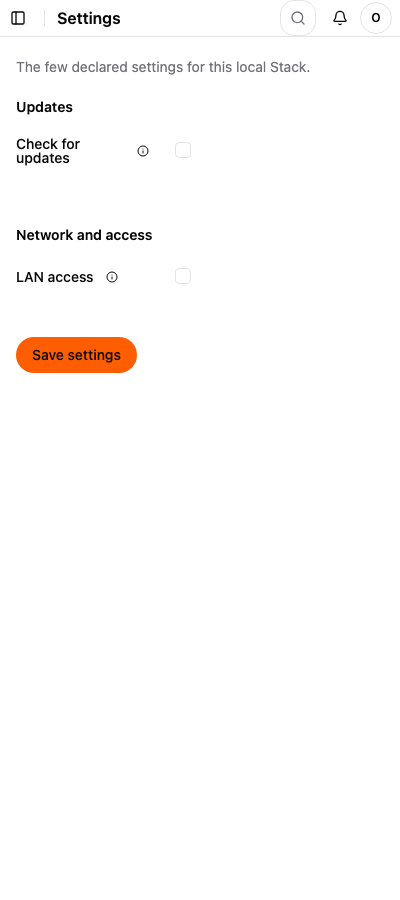
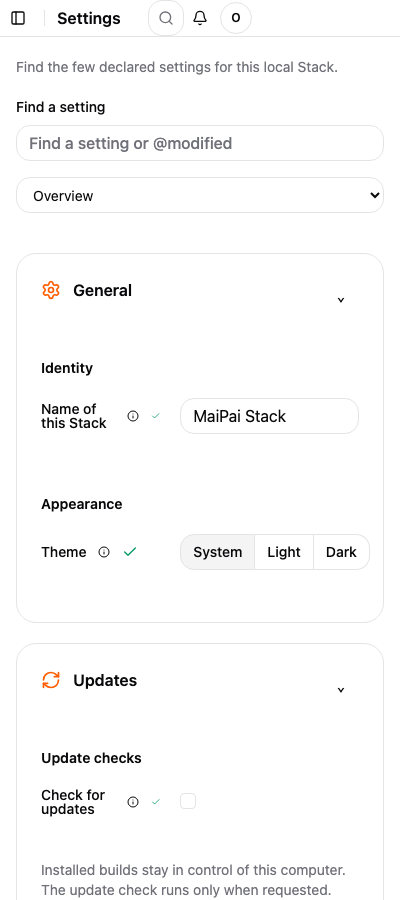
Settings (STACK-52): a settings nav, section cards, live apply

diff --git a/frontend/src/pages/SettingsPage.tsx b/frontend/src/pages/SettingsPage.tsx
@@ -1,20 +1,76 @@
 import { useEffect, useMemo, useState } from "react";
-import { Link, useLocation } from "react-router-dom";
-import type { EngineSetting } from "@/lib/api";
+import type { ReactNode } from "react";
+import { Link, useLocation, useNavigate, useParams } from "react-router-dom";
+import type { EngineSetting, HardwareResponse, StackSettingSection } from "@/lib/api";
 import { api } from "@/lib/api";
 import { useApiResource } from "@/lib/useApiResource";
 import { GenericForm } from "@/kit/settings/GenericForm";
+import { getIcon } from "@/kit/icons";
 import { Button } from "@/kit/ui/button";
+import { Card, CardContent, CardDescription, CardHeader, CardTitle } from "@/kit/ui/card";
+import { Input } from "@/kit/ui/input";
+import { ThingsTable } from "@/kit/blocks/things-table/ThingsTable";
 import type { SectionFrameComponent } from "@/pages/DashboardShell";
+
+type SettingValue = string | number | boolean;
+type IndexResponse = { sections: StackSettingSection[]; settings: Array<{ key: string; label: string; help: string; level: string; section: string; order: number; path: string }> };
+
+const fallbackSections: StackSettingSection[] = [
+  { id: "general", title: "General", icon: "Settings", order: 10 }, { id: "updates", title: "Updates", icon: "RefreshCw", order: 20 }, { id: "backups", title: "Backups", icon: "UploadCloud", order: 30, itemId: "STACK-11" }, { id: "network", title: "Network and access", icon: "ShieldCheck", order: 40 }, { id: "channels", title: "Alert channels", icon: "Bell", order: 50 }, { id: "storage", title: "Storage", icon: "Database", order: 60 }, { id: "maintenance", title: "Maintenance", icon: "Wrench", order: 70, itemId: "STACK-22" }, { id: "engines", title: "Engines", icon: "Cpu", order: 80 }, { id: "hardware", title: "Hardware", icon: "Monitor", order: 90, computer: true }, { id: "diagnostics", title: "Diagnostics", icon: "FileText", order: 100, computer: true }, { id: "reset", title: "Reset", icon: "RotateCcw", order: 110, computer: true },
+];
+
+const placeholder = (key: string, label: string, help: string, section: string): EngineSetting => ({ key, type: "text", default: "", label, help, disclosure: "basic", needsRestart: false, inEffect: "", pending: null, section });
+function sectionIcon(name: string) { return getIcon(name as Parameters<typeof getIcon>[0]); }
+
+function SettingsSection({ section, children }: { section: StackSettingSection; children: ReactNode }) {
+  const [open, setOpen] = useState(() => localStorage.getItem(`maipai-settings-collapsed-${section.id}`) !== "1");
+  const Icon = sectionIcon(section.icon);
+  function toggle(): void { setOpen((current) => { localStorage.setItem(`maipai-settings-collapsed-${section.id}`, current ? "1" : "0"); return !current; }); }
+  return <Card data-testid={`settings-section-${section.id}`}><CardHeader className="pb-3"><div className="flex items-start justify-between gap-3"><div className="flex items-start gap-3"><Icon className="mt-0.5 size-5 text-primary" /><div><CardTitle className="text-base">{section.title}</CardTitle>{section.itemId && <CardDescription>Arrives with {section.itemId}.</CardDescription>}</div></div><Button type="button" size="icon" variant="ghost" aria-label={`${open ? "Collapse" : "Expand"} ${section.title}`} onClick={toggle}>{open ? "⌄" : "›"}</Button></div></CardHeader>{open && <CardContent>{children}</CardContent>}</Card>;
+}
+
+function DisabledRows({ section }: { section: StackSettingSection }) {
+  const reason = section.itemId ? `${section.title} arrives with ${section.itemId}.` : "This section is not configured yet.";
+  const row = placeholder(`${section.id}-placeholder`, section.title, reason, section.id);
+  return <><GenericForm settings={[row]} values={{ [row.key]: "Not available" }} onChange={() => undefined} disabled testId="generic-settings-form" /><p className="mt-4 text-sm text-muted-foreground">{reason}</p></>;
+}
 
 export function SettingsPage({ Frame }: { Frame: SectionFrameComponent }) {
   const settings = useApiResource<{ settings: EngineSetting[] }>("/stack/v1/settings");
-  const [draft, setDraft] = useState<Record<string, string | number | boolean>>({});
-  useEffect(() => { if (settings.data) setDraft(Object.fromEntries(settings.data.settings.map((setting) => [setting.key, setting.pending ?? setting.inEffect]))); }, [settings.data]);
+  const index = useApiResource<IndexResponse>("/stack/v1/settings/index");
+  const hardware = useApiResource<HardwareResponse>("/stack/v1/hardware");
+  const channels = useApiResource<{ channels: Array<{ id: string; name: string; type: string; status: string; lastSentAt: string | null }> }>("/stack/v1/channels");
+  const engines = useApiResource<{ engines: Array<{ id: string; label: string; current: boolean; stateReason: string | null }> }>("/stack/v1/engines");
+  const [draft, setDraft] = useState<Record<string, SettingValue>>({});
+  const [search, setSearch] = useState("");
+  const [error, setError] = useState<string | null>(null);
   const location = useLocation();
-  const [pending, setPending] = useState<string[]>([]);
-  const sections = useMemo(() => [{ id: "general", title: "General" }, { id: "updates", title: "Updates" }, { id: "backups", title: "Backups" }, { id: "network", title: "Network and access" }, { id: "channels", title: "Alert channels" }, { id: "storage", title: "Storage" }, { id: "maintenance", title: "Maintenance" }, { id: "engines", title: "Engines" }, { id: "hardware", title: "Hardware" }, { id: "diagnostics", title: "Diagnostics" }, { id: "reset", title: "Reset" }], []);
-  async function changeSetting(key: string, value: string | number | boolean): Promise<void> { const next = { ...draft, [key]: value }; setDraft(next); const changed = settings.data?.settings.find((setting) => setting.key === key); if (changed?.needsRestart) setPending((current) => current.includes(key) ? current : [...current, key]); try { await api.put("/stack/v1/settings", next); await settings.refetch(); } catch { /* the row keeps its draft until the next retry */ } }
-  const active = location.hash.replace("#", "") || "general";
-  return <Frame title="Settings" description="The few declared settings for this local Stack."><div className="grid gap-6 lg:grid-cols-[14rem_1fr]"><aside className="space-y-3"><label className="block text-sm font-medium">Find a setting<input className="mt-2 h-9 w-full rounded-md border bg-background px-3 text-sm" placeholder="Find a setting" /></label><nav className="space-y-1">{sections.map((section) => <a className={`block rounded-md px-3 py-2 text-sm ${active === section.id ? "bg-muted font-medium" : "text-muted-foreground hover:bg-muted"}`} href={`#${section.id}`} key={section.id}>{section.title}</a>)}</nav></aside><div className="space-y-5">{settings.loading && <p className="text-sm text-muted-foreground">Loading declared settings…</p>}{settings.error && <p className="text-sm text-destructive">Settings could not be loaded.</p>}{settings.data && <><section id="general" className="scroll-mt-6 rounded-xl border p-5"><h2 className="font-semibold">General</h2><p className="mt-1 text-sm text-muted-foreground">How this Stack presents itself.</p><div className="mt-4"><GenericForm settings={settings.data.settings} values={draft} onChange={(key, value) => void changeSetting(key, value)} /></div></section><section id="updates" className="scroll-mt-6 rounded-xl border p-5"><h2 className="font-semibold">Updates</h2><p className="mt-1 text-sm text-muted-foreground">Updates are checked on request. Installed builds stay in control of this computer.</p></section><section id="backups" className="scroll-mt-6 rounded-xl border p-5"><h2 className="font-semibold">Backups</h2><p className="mt-1 text-sm text-muted-foreground">Backups arrive with STACK-11.</p></section><section id="network" className="scroll-mt-6 rounded-xl border p-5"><h2 className="font-semibold">Network and access</h2><p className="mt-1 text-sm text-muted-foreground"><Link className="text-primary underline" to="/access">Manage Clients and LAN access</Link>.</p></section>{sections.slice(4).map((section) => <section id={section.id} className="scroll-mt-6 rounded-xl border p-5" key={section.id}><h2 className="font-semibold">{section.title}</h2><p className="mt-1 text-sm text-muted-foreground">This section is declared by the Stack and stays local to this computer.</p></section>)}{pending.length > 0 && <div className="sticky bottom-4 flex items-center justify-between gap-4 rounded-xl border bg-card p-4 shadow-sm"><span>{pending.length} change{pending.length === 1 ? "" : "s"} need a restart of the chat engine</span><div className="flex gap-2"><Button variant="outline" onClick={() => setPending([])}>Discard</Button><Button onClick={() => setPending([])}>Apply now</Button></div></div>}</>}</div></div></Frame>;
+  const navigate = useNavigate();
+  const { section: routeSection } = useParams<{ section?: string }>();
+  const sections = (index.data?.sections ?? fallbackSections).slice().sort((left, right) => left.order - right.order);
+  const hashSection = location.hash.replace(/^#/, "");
+  const active = routeSection && sections.some((section) => section.id === routeSection) ? routeSection : sections.some((section) => section.id === hashSection) ? hashSection : "overview";
+
+  useEffect(() => { if (settings.data?.settings) setDraft(Object.fromEntries(settings.data.settings.map((setting) => [setting.key, setting.pending ?? setting.inEffect]))); }, [settings.data]);
+  const visibleSettings = useMemo(() => {
+    const query = search.trim().toLocaleLowerCase();
+    return (settings.data?.settings ?? []).filter((setting) => query === "@modified" ? setting.pending !== null : !query || setting.label.toLocaleLowerCase().includes(query) || setting.key.toLocaleLowerCase().includes(query) || setting.help.toLocaleLowerCase().includes(query));
+  }, [search, settings.data]);
+  const pending = (settings.data?.settings ?? []).filter((setting) => setting.needsRestart && setting.pending !== null);
+  async function changeSetting(key: string, value: SettingValue): Promise<void> { setDraft((current) => ({ ...current, [key]: value })); setError(null); try { await api.put("/stack/v1/settings", { [key]: value }); await settings.refetch(); } catch (reason) { setError(reason instanceof Error ? reason.message : "The setting could not be saved."); } }
+  async function applyPending(): Promise<void> { try { await api.post("/stack/v1/settings/apply"); await settings.refetch(); } catch (reason) { setError(reason instanceof Error ? reason.message : "Pending settings could not be applied."); } }
+  async function discardPending(): Promise<void> { const values = Object.fromEntries((settings.data?.settings ?? []).filter((setting) => setting.pending !== null).map((setting) => [setting.key, setting.inEffect])); try { await api.put("/stack/v1/settings", values); await settings.refetch(); } catch (reason) { setError(reason instanceof Error ? reason.message : "Pending settings could not be discarded."); } }
+  function showSection(id: string): void { navigate(id === "overview" ? "/settings" : `/settings/${id}`); }
+
+  function sectionBody(section: StackSettingSection): ReactNode {
+    const declared = visibleSettings.filter((setting) => setting.section === section.id);
+    if (["general", "network", "updates", "diagnostics", "storage"].includes(section.id)) return <><GenericForm settings={declared} values={draft} onChange={(key, value) => void changeSetting(key, value)} testId={section.id === "general" ? "generic-engine-form" : "generic-settings-form"} />{section.id === "network" && <p className="mt-4 text-sm text-muted-foreground"><Link className="underline" to="/access">Manage operator access and client keys</Link>.</p>}{section.id === "updates" && <p className="mt-4 text-sm text-muted-foreground">Installed builds stay in control of this computer. The update check runs only when requested.</p>}</>;
+    if (section.id === "channels") return <><ThingsTable rows={channels.data?.channels ?? []} getKey={(row) => row.id} columns={[{ key: "name", header: "Channel", render: (row) => row.name }, { key: "type", header: "Type", render: (row) => row.type }, { key: "status", header: "Status", align: "right", render: (row) => row.status }]} actions={[{ label: "Add a channel", onClick: () => navigate("/alerts") }]} empty="No alert channels configured." /><p className="mt-3 text-sm text-muted-foreground"><Link className="underline" to="/alerts">Manage alert channels</Link>.</p></>;
+    if (section.id === "engines") return <div className="space-y-3">{(engines.data?.engines ?? []).map((engine) => <Link className="flex items-center justify-between rounded-lg border p-3 text-sm hover:bg-muted" to={`/engines?engine=${encodeURIComponent(engine.id)}`} key={engine.id}><span>{engine.label}</span><span className="text-muted-foreground">{engine.current ? "Current" : engine.stateReason ?? "Settings"}</span></Link>)}{(engines.data?.engines ?? []).length === 0 && <p className="text-sm text-muted-foreground">No engines are installed yet.</p>}</div>;
+    if (section.id === "hardware") return <div className="grid gap-3 text-sm sm:grid-cols-2">{[["Platform", hardware.data?.hardware.platform], ["Architecture", hardware.data?.hardware.arch], ["Memory", hardware.data?.hardware.totalRamGb ? `${hardware.data.hardware.totalRamGb} GB` : "Not measured"], ["Operating system", hardware.data?.hardware.osVersion]].map(([label, value]) => <div className="border-t pt-3" key={String(label)}><p className="text-muted-foreground">{label}</p><p className="mt-1 font-medium">{value ?? "Not measured"}</p></div>)}</div>;
+    if (section.id === "reset") return <div className="space-y-3 text-sm"><p>Clear local caches or forget detected things from the Stack.</p><Button variant="outline" type="button" onClick={() => undefined}>Clear caches</Button><p className="text-muted-foreground">Destructive reset actions ask for confirmation before they run.</p></div>;
+    return <DisabledRows section={section} />;
+  }
+
+  return <Frame title="Settings" description="Find the few declared settings for this local Stack."><div className="grid gap-6 lg:grid-cols-[15rem_1fr]"><aside className="space-y-4"><label htmlFor="settings-search" className="block text-sm font-medium">Find a setting<Input id="settings-search" aria-label="Find a setting" className="mt-2" placeholder="Find a setting or @modified" value={search} onChange={(event) => setSearch(event.target.value)} /></label><select aria-label="Settings section" className="h-9 w-full rounded-md border bg-background px-3 text-sm lg:hidden" value={active} onChange={(event) => showSection(event.target.value)}><option value="overview">Overview</option>{sections.map((section) => <option value={section.id} key={section.id}>{section.title}</option>)}</select><nav className="hidden space-y-1 lg:block"><Link className={`block rounded-md px-3 py-2 text-sm ${active === "overview" ? "bg-muted font-medium" : "text-muted-foreground hover:bg-muted"}`} to="/settings">Overview</Link>{sections.filter((section) => !section.computer).map((section) => <Link className={`block rounded-md px-3 py-2 text-sm ${active === section.id ? "bg-muted font-medium" : "text-muted-foreground hover:bg-muted"}`} to={`/settings/${section.id}`} key={section.id}>{section.title}</Link>)}<div className="my-3 border-t" /><p className="px-3 text-xs font-medium uppercase tracking-wide text-muted-foreground">{hardware.data?.hardware.computerName ?? "This computer"}</p>{sections.filter((section) => section.computer).map((section) => <Link className={`block rounded-md px-3 py-2 text-sm ${active === section.id ? "bg-muted font-medium" : "text-muted-foreground hover:bg-muted"}`} to={`/settings/${section.id}`} key={section.id}>{section.title}</Link>)}</nav></aside><div className="min-w-0 space-y-5">{error && <p className="text-sm text-destructive" role="alert">{error}</p>}{settings.loading && <p className="text-sm text-muted-foreground">Loading declared settings...</p>}{active === "overview" ? sections.map((section) => <SettingsSection section={section} key={section.id}>{sectionBody(section)}</SettingsSection>) : sections.filter((section) => section.id === active).map((section) => <SettingsSection section={section} key={section.id}>{sectionBody(section)}</SettingsSection>)}{pending.length > 0 && <div className="sticky bottom-4 flex items-center justify-between gap-4 rounded-xl border bg-card p-4 shadow-sm"><span>{pending.length} change{pending.length === 1 ? "" : "s"} need a restart of the chat engine</span><div className="flex gap-2"><Button type="button" variant="outline" onClick={() => void discardPending()}>Discard</Button><Button type="button" onClick={() => void applyPending()}>Apply now</Button></div></div>}</div></div></Frame>;
 }

diff --git a/frontend/src/kit/settings/GenericForm.tsx b/frontend/src/kit/settings/GenericForm.tsx
@@ -12,46 +12,48 @@ import { Select, SelectContent, SelectItem, SelectTrigger, SelectValue } from "@
 import { ToggleGroup, ToggleGroupItem } from "@/kit/ui/toggle-group";
 
 type SettingValue = string | number | boolean;
-const Info = getIcon("Info");
+const Info = getIcon("Info"); const Check = getIcon("Check");
 
 export interface GenericFormProps {
   settings: EngineSetting[];
   values: Record<string, SettingValue>;
   onChange: (key: string, value: SettingValue) => void;
+  disabled?: boolean;
+  testId?: string;
 }
 
 function sameValue(left: SettingValue, right: SettingValue): boolean { return left === right; }
 
-function SettingControl({ setting, value, onChange }: { setting: EngineSetting; value: SettingValue; onChange: (value: SettingValue) => void }) {
-  if (setting.type === "boolean") return <Checkbox id={`setting-${setting.key}`} aria-label={setting.label} checked={Boolean(value)} onCheckedChange={(checked) => onChange(checked === true)} />;
-  if (setting.type === "enum" && (setting.options?.length ?? 0) <= 3) return <ToggleGroup type="single" variant="outline" value={String(value)} onValueChange={(next) => { if (next) onChange(next); }} aria-label={setting.label}>{(setting.options ?? []).map((option) => <ToggleGroupItem key={option.value} value={option.value} aria-label={option.label}>{option.label}</ToggleGroupItem>)}</ToggleGroup>;
-  if (setting.type === "enum") return <Select value={String(value)} onValueChange={onChange}><SelectTrigger id={`setting-${setting.key}`} aria-label={setting.label}><SelectValue /></SelectTrigger><SelectContent>{(setting.options ?? []).map((option) => <SelectItem key={option.value} value={option.value}>{option.label}</SelectItem>)}</SelectContent></Select>;
-  return <Input id={`setting-${setting.key}`} aria-label={setting.label} type={setting.type === "number" ? "number" : setting.type === "secret" || setting.type === "password" ? "password" : "text"} min={setting.range?.min} max={setting.range?.max} value={String(value)} onChange={(event) => onChange(setting.type === "number" ? Number(event.target.value) : event.target.value)} />;
+function SettingControl({ setting, value, onChange, disabled }: { setting: EngineSetting; value: SettingValue; onChange: (value: SettingValue) => void; disabled?: boolean }) {
+  if (setting.type === "boolean") return <Checkbox id={`setting-${setting.key}`} aria-label={setting.label} checked={Boolean(value)} disabled={disabled} onCheckedChange={(checked) => onChange(checked === true)} />;
+  if (setting.type === "enum" && (setting.options?.length ?? 0) <= 3) return <ToggleGroup disabled={disabled} type="single" variant="outline" value={String(value)} onValueChange={(next) => { if (next) onChange(next); }} aria-label={setting.label}>{(setting.options ?? []).map((option) => <ToggleGroupItem key={option.value} value={option.value} aria-label={option.label}>{option.label}</ToggleGroupItem>)}</ToggleGroup>;
+  if (setting.type === "enum") return <Select disabled={disabled} value={String(value)} onValueChange={onChange}><SelectTrigger id={`setting-${setting.key}`} aria-label={setting.label}><SelectValue /></SelectTrigger><SelectContent>{(setting.options ?? []).map((option) => <SelectItem key={option.value} value={option.value}>{option.label}</SelectItem>)}</SelectContent></Select>;
+  return <Input disabled={disabled} id={`setting-${setting.key}`} aria-label={setting.label} type={setting.type === "number" ? "number" : setting.type === "secret" || setting.type === "password" ? "password" : "text"} min={setting.range?.min} max={setting.range?.max} value={String(value)} onChange={(event) => onChange(setting.type === "number" ? Number(event.target.value) : event.target.value)} />;
 }
 
-function SettingRow({ setting, value, onChange }: { setting: EngineSetting; value: SettingValue; onChange: (value: SettingValue) => void }) {
+function SettingRow({ setting, value, onChange, disabled }: { setting: EngineSetting; value: SettingValue; onChange: (value: SettingValue) => void; disabled?: boolean }) {
   const pending = !sameValue(value, setting.inEffect);
-  return <div className="grid grid-cols-[minmax(0,2fr)_minmax(0,3fr)] items-center gap-5 border-t py-4 first:border-t-0" data-testid={`setting-row-${setting.key}`}><div className="min-w-0"><div className="flex items-center gap-1.5"><Label htmlFor={`setting-${setting.key}`}>{setting.label}</Label><Popover><PopoverTrigger asChild><Button type="button" size="icon-xs" variant="ghost" aria-label={`Explain ${setting.label}`}><Info /></Button></PopoverTrigger><PopoverContent align="start" className="space-y-2 text-sm"><p>{setting.help}</p>{setting.needsRestart && <p className="text-muted-foreground">Takes effect after a restart.</p>}</PopoverContent></Popover>{pending && <Badge variant="outline">pending</Badge>}</div></div><div className="min-w-0"><SettingControl setting={setting} value={value} onChange={onChange} /></div></div>;
+  return <div className={`grid grid-cols-[minmax(0,2fr)_minmax(0,3fr)] items-center gap-5 border-t py-4 first:border-t-0 ${disabled ? "opacity-50" : ""}`} data-testid={`setting-row-${setting.key}`}><div className="min-w-0"><div className="flex items-center gap-1.5"><Label htmlFor={`setting-${setting.key}`}>{setting.label}</Label><Popover><PopoverTrigger asChild><Button disabled={disabled} type="button" size="icon-xs" variant="ghost" aria-label={`Explain ${setting.label}`}><Info /></Button></PopoverTrigger><PopoverContent align="start" className="space-y-2 text-sm"><p>{setting.help}</p>{setting.needsRestart && <p className="text-muted-foreground">Takes effect after a restart.</p>}</PopoverContent></Popover>{pending && !disabled && <Badge variant="outline">pending</Badge>}{!pending && !disabled && <Check className="size-4 text-emerald-600" aria-label="Saved" />}</div></div><div className="min-w-0"><SettingControl setting={setting} value={value} disabled={disabled} onChange={onChange} /></div></div>;
 }
 
-function DisclosureRows({ label, settings, values, onChange }: { label: string; settings: EngineSetting[]; values: Record<string, SettingValue>; onChange: GenericFormProps["onChange"] }) {
+function DisclosureRows({ label, settings, values, onChange, disabled }: { label: string; settings: EngineSetting[]; values: Record<string, SettingValue>; onChange: GenericFormProps["onChange"]; disabled?: boolean }) {
   if (settings.length === 0) return null;
-  return <Collapsible><CollapsibleTrigger asChild><Button type="button" variant="link" className="h-auto px-0 text-sm">{label}</Button></CollapsibleTrigger><CollapsibleContent className="mt-1"><div>{settings.map((setting) => <SettingRow key={setting.key} setting={setting} value={values[setting.key] ?? setting.pending ?? setting.inEffect} onChange={(value) => onChange(setting.key, value)} />)}</div></CollapsibleContent></Collapsible>;
+  return <Collapsible><CollapsibleTrigger asChild><Button disabled={disabled} type="button" variant="link" className="h-auto px-0 text-sm">{label}</Button></CollapsibleTrigger><CollapsibleContent className="mt-1"><div>{settings.map((setting) => <SettingRow disabled={disabled} key={setting.key} setting={setting} value={values[setting.key] ?? setting.pending ?? setting.inEffect} onChange={(value) => onChange(setting.key, value)} />)}</div></CollapsibleContent></Collapsible>;
 }
 
-function SettingsGroup({ title, settings, values, onChange }: { title: string; settings: EngineSetting[]; values: Record<string, SettingValue>; onChange: GenericFormProps["onChange"] }) {
+function SettingsGroup({ title, settings, values, onChange, disabled }: { title: string; settings: EngineSetting[]; values: Record<string, SettingValue>; onChange: GenericFormProps["onChange"]; disabled?: boolean }) {
   const basic = settings.filter((setting) => setting.disclosure === "basic");
   const advanced = settings.filter((setting) => setting.disclosure === "advanced");
   const developer = settings.filter((setting) => setting.disclosure === "developer");
-  return <section className="space-y-1" data-testid={`settings-group-${title}`}><h3 className="text-sm font-semibold">{title}</h3><div>{basic.map((setting) => <SettingRow key={setting.key} setting={setting} value={values[setting.key] ?? setting.pending ?? setting.inEffect} onChange={(value) => onChange(setting.key, value)} />)}</div><div className="flex flex-wrap gap-x-4 gap-y-1 pt-2"><DisclosureRows label="Show advanced" settings={advanced} values={values} onChange={onChange} /><DisclosureRows label="Show developer settings" settings={developer} values={values} onChange={onChange} /></div></section>;
+  return <section className="space-y-1" data-testid={`settings-group-${title}`}><h3 className="text-sm font-semibold">{title}</h3><div>{basic.map((setting) => <SettingRow disabled={disabled} key={setting.key} setting={setting} value={values[setting.key] ?? setting.pending ?? setting.inEffect} onChange={(value) => onChange(setting.key, value)} />)}</div><div className="flex flex-wrap gap-x-4 gap-y-1 pt-2"><DisclosureRows disabled={disabled} label="Show advanced" settings={advanced} values={values} onChange={onChange} /><DisclosureRows disabled={disabled} label="Show developer settings" settings={developer} values={values} onChange={onChange} /></div></section>;
 }
 
-export function GenericForm({ settings, values, onChange }: GenericFormProps) {
+export function GenericForm({ settings, values, onChange, disabled, testId = "generic-engine-form" }: GenericFormProps) {
   const groups = useMemo(() => {
     const grouped = new Map<string, EngineSetting[]>();
     for (const setting of settings) { const title = setting.group ?? "Settings"; grouped.set(title, [...(grouped.get(title) ?? []), setting]); }
     return [...grouped.entries()];
   }, [settings]);
   const hasPending = settings.some((setting) => !sameValue(values[setting.key] ?? setting.pending ?? setting.inEffect, setting.inEffect));
-  return <div className="space-y-8" data-testid="generic-engine-form">{groups.map(([title, group]) => <SettingsGroup key={title} title={title} settings={group} values={values} onChange={onChange} />)}{hasPending && <p className="border-t pt-4 text-sm text-muted-foreground">Restart to apply pending settings.</p>}</div>;
+  return <div className="space-y-8" data-testid={testId}>{groups.map(([title, group]) => <SettingsGroup disabled={disabled} key={title} title={title} settings={group} values={values} onChange={onChange} />)}{hasPending && !disabled && <p className="border-t pt-4 text-sm text-muted-foreground">Restart to apply pending settings.</p>}</div>;
 }

diff --git a/backend/src/settings/stackKeys.ts b/backend/src/settings/stackKeys.ts
@@ -6,9 +6,32 @@ import { hasOperator } from "@/lib/operator";
 import { setUpdatesEnabled, updatesEnabled } from "@/updates/check";
 import type { EngineSettingDeclaration, EngineSettingValue } from "@/settings/engineKeys";
 
-export const STACK_SETTINGS: EngineSettingDeclaration[] = [
-  { key: "updatesEnabled", type: "boolean", default: false, label: "Check for updates", help: "Allow the Stack to check its release manifests when you ask it to.", group: "Updates", disclosure: "basic", needsRestart: false },
-  { key: "lanAccess", type: "boolean", default: false, label: "LAN access", help: "Expose the Stack beyond this computer. A restart is required and operator sign-in remains required.", group: "Network and access", disclosure: "basic", needsRestart: true },
+export type StackSectionId = "general" | "updates" | "backups" | "network" | "channels" | "storage" | "maintenance" | "engines" | "hardware" | "diagnostics" | "reset";
+export interface StackSection { id: StackSectionId; title: string; icon: string; order: number; itemId?: string; computer?: boolean; }
+export interface StackSettingDeclaration extends EngineSettingDeclaration { section: StackSectionId; order: number; }
+
+export const STACK_SETTING_SECTIONS: StackSection[] = [
+  { id: "general", title: "General", icon: "Settings", order: 10 },
+  { id: "updates", title: "Updates", icon: "RefreshCw", order: 20 },
+  { id: "backups", title: "Backups", icon: "UploadCloud", order: 30, itemId: "STACK-11" },
+  { id: "network", title: "Network and access", icon: "ShieldCheck", order: 40 },
+  { id: "channels", title: "Alert channels", icon: "Bell", order: 50 },
+  { id: "storage", title: "Storage", icon: "Database", order: 60 },
+  { id: "maintenance", title: "Maintenance", icon: "Wrench", order: 70, itemId: "STACK-22" },
+  { id: "engines", title: "Engines", icon: "Cpu", order: 80 },
+  { id: "hardware", title: "Hardware", icon: "Monitor", order: 90, computer: true },
+  { id: "diagnostics", title: "Diagnostics", icon: "FileText", order: 100, computer: true },
+  { id: "reset", title: "Reset", icon: "RotateCcw", order: 110, computer: true },
+];
+
+export const STACK_SETTINGS: StackSettingDeclaration[] = [
+  { key: "stackName", type: "text", default: "MaiPai Stack", label: "Name of this Stack", help: "The name shown in the Stack header and to local clients.", group: "Identity", disclosure: "basic", needsRestart: false, section: "general", order: 10 },
+  { key: "theme", type: "enum", default: "system", label: "Theme", help: "Choose light, dark, or follow this computer.", group: "Appearance", disclosure: "basic", needsRestart: false, options: [{ value: "system", label: "System" }, { value: "light", label: "Light" }, { value: "dark", label: "Dark" }], section: "general", order: 20 },
+  { key: "updatesEnabled", type: "boolean", default: false, label: "Check for updates", help: "Allow the Stack to check its release manifests when you ask it to.", group: "Update checks", disclosure: "basic", needsRestart: false, section: "updates", order: 10 },
+  { key: "lanAccess", type: "boolean", default: false, label: "LAN access", help: "Expose the Stack beyond this computer. A restart is required and operator sign-in remains required.", group: "Access", disclosure: "basic", needsRestart: true, section: "network", order: 10 },
+  { key: "port", type: "number", default: 8787, label: "Stack port", help: "The local port used by the Stack after restart.", group: "Access", disclosure: "basic", needsRestart: true, range: { min: 1, max: 65535 }, section: "network", order: 20 },
+  { key: "historyRetention", type: "number", default: 30, label: "History retention", help: "Days of local event history to retain.", group: "Storage", disclosure: "basic", needsRestart: false, range: { min: 1, max: 3650 }, section: "storage", order: 10 },
+  { key: "logLevel", type: "enum", default: "info", label: "Log level", help: "How much diagnostic detail to keep in local logs.", group: "Diagnostics", disclosure: "basic", needsRestart: false, options: [{ value: "error", label: "Errors" }, { value: "warn", label: "Warnings" }, { value: "info", label: "Info" }, { value: "debug", label: "Debug" }], section: "diagnostics", order: 10 },
 ];
 
 function metaKey(key: string, state: "inEffect" | "pending"): string { return `settings.stack.${key}.${state}`; }
@@ -16,7 +39,12 @@ function read(key: string): string | null { return db.select({ value: meta.value
 function write(key: string, value: unknown): void { db.insert(meta).values({ key, value: JSON.stringify(value) }).onConflictDoUpdate({ target: meta.key, set: { value: JSON.stringify(value) } }).run(); }
 function clear(key: string): void { db.delete(meta).where(eq(meta.key, key)).run(); }
 function decode(value: string | null, declaration: EngineSettingDeclaration): number | boolean | string { if (value === null) return declaration.default; try { return JSON.parse(value) as number | boolean | string; } catch { return declaration.default; } }
-function valueSchema(declaration: EngineSettingDeclaration): z.ZodTypeAny { return declaration.type === "boolean" ? z.boolean() : z.string(); }
+function valueSchema(declaration: EngineSettingDeclaration): z.ZodTypeAny {
+  if (declaration.type === "boolean") return z.boolean();
+  if (declaration.type === "number") return z.number().int().min(declaration.range?.min ?? Number.MIN_SAFE_INTEGER).max(declaration.range?.max ?? Number.MAX_SAFE_INTEGER);
+  if (declaration.type === "enum") return z.string().refine((value) => declaration.options?.some((option) => option.value === value) ?? false, "Invalid setting option");
+  return z.string();
+}
 
 function inEffect(declaration: EngineSettingDeclaration): number | boolean | string {
   if (declaration.key === "updatesEnabled") return updatesEnabled();

diff --git a/frontend/src/pages/DashboardShell.tsx b/frontend/src/pages/DashboardShell.tsx
@@ -1,7 +1,7 @@
 import { useEffect, useMemo, useState } from "react";
 import type { ReactNode } from "react";
 import { Area, AreaChart, CartesianGrid, ResponsiveContainer, Tooltip, XAxis, YAxis } from "recharts";
-import { Route, Routes, useLocation, useNavigate } from "react-router-dom";
+import { Navigate, Route, Routes, useLocation, useNavigate } from "react-router-dom";
 import { getIcon } from "@/kit/icons";
 import { type BudgetResponse, type EngineRecord, type HardwareResponse, type HealthItem, type RepairRecord, type RoleRecord } from "@/lib/api";
 import { BoardPage } from "@/pages/BoardPage";
@@ -73,7 +73,7 @@ export function DashboardShell() {
   const engineTooltip = engineCount === 0 ? "Engines" : `${engineCount} ${engineCount === 1 ? "engine" : "engines"} need${engineCount === 1 ? "s" : ""} attention`;
   const updateTooltip = updateCount === 0 ? "Updates" : `${updateCount} update${updateCount === 1 ? "" : "s"} available`;
   const alertTooltip = alertCount === 0 ? "Alerts" : `Alerts: ${alertSeverity === "critical" ? "1 critical" : alertSeverity === "error" ? `${alertCount} error${alertCount === 1 ? "" : "s"}` : `${alertCount} warning${alertCount === 1 ? "" : "s"}`}`;
-  return <SidebarProvider><AppSidebar repairs={repairRows} roles={roleRows} health={health.data?.health ?? []} engineCount={engineCount} updateCount={updateCount} alertSeverity={alertSeverity} engineTooltip={engineTooltip} updateTooltip={updateTooltip} alertTooltip={alertTooltip} hardware={hardware.data?.hardware} budget={budget.data} runState={runState.data?.state} /><SidebarInset className="h-svh overflow-hidden"><SiteHeader title={title} onSearch={() => setPaletteOpen(true)} runState={runState.data?.state ?? "running"} onRunStateChange={() => void runState.refetch()} /><div className="flex-1 overflow-y-auto"><Routes><Route path="/" element={<BoardPageProxy />} /><Route path="/abilities" element={<AbilitiesProxy />} /><Route path="/models" element={<ModelsPage Frame={SectionFrame} />} /><Route path="/engines" element={<EnginesPage Frame={SectionFrame} />} /><Route path="/monitoring" element={<MonitoringPage />} /><Route path="/alerts" element={<AlertsPage Frame={SectionFrame} />} /><Route path="/logs" element={<LogsPage />} /><Route path="/access" element={<AccessPage Frame={SectionFrame} />} /><Route path="/try" element={<TryItPage />} /><Route path="/settings/*" element={<SettingsPage Frame={SectionFrame} />} /><Route path="*" element={<BoardPageProxy />} /></Routes></div></SidebarInset><CommandPalette open={paletteOpen} onOpenChange={setPaletteOpen} /></SidebarProvider>;
+  return <SidebarProvider><AppSidebar repairs={repairRows} roles={roleRows} health={health.data?.health ?? []} engineCount={engineCount} updateCount={updateCount} alertSeverity={alertSeverity} engineTooltip={engineTooltip} updateTooltip={updateTooltip} alertTooltip={alertTooltip} hardware={hardware.data?.hardware} budget={budget.data} runState={runState.data?.state} /><SidebarInset className="h-svh overflow-hidden"><SiteHeader title={title} onSearch={() => setPaletteOpen(true)} runState={runState.data?.state ?? "running"} onRunStateChange={() => void runState.refetch()} /><div className="flex-1 overflow-y-auto"><Routes><Route path="/" element={<BoardPageProxy />} /><Route path="/abilities" element={<AbilitiesProxy />} /><Route path="/models" element={<ModelsPage Frame={SectionFrame} />} /><Route path="/engines" element={<EnginesPage Frame={SectionFrame} />} /><Route path="/monitoring" element={<MonitoringPage />} /><Route path="/alerts" element={<AlertsPage Frame={SectionFrame} />} /><Route path="/logs" element={<LogsPage />} /><Route path="/access" element={<AccessPage Frame={SectionFrame} />} /><Route path="/try" element={<TryItPage />} /><Route path="/updates" element={<Navigate to="/settings/updates" replace />} /><Route path="/backups" element={<Navigate to="/settings/backups" replace />} /><Route path="/settings/*" element={<SettingsPage Frame={SectionFrame} />} /><Route path="*" element={<BoardPageProxy />} /></Routes></div></SidebarInset><CommandPalette open={paletteOpen} onOpenChange={setPaletteOpen} /></SidebarProvider>;
 }
 
 function BoardPageProxy() { const roles = useApiResource<{ roles: RoleRecord[] }>("/stack/v1/roles"); const hasPlan = roles.data?.roles.some((role) => role.state !== "notInstalled"); return hasPlan ? <OverviewPage /> : <BoardPage embedded />; }

diff --git a/backend/src/routes/settings.ts b/backend/src/routes/settings.ts
@@ -1,17 +1,21 @@
 import { createRoute, z } from "@hono/zod-openapi";
 import { apiRouter, ErrorSchema } from "@/lib/openapi";
 import { requireOperator } from "@/lib/operator";
-import { readStackConfig, updateStackConfig } from "@/settings/stackKeys";
+import { activateStackConfig, readStackConfig, STACK_SETTING_SECTIONS, STACK_SETTINGS, updateStackConfig } from "@/settings/stackKeys";
 
 const settingSchema = z.object({
-  key: z.string(), type: z.enum(["number", "boolean", "text", "enum"]), default: z.union([z.string(), z.number(), z.boolean()]), group: z.string().optional(), options: z.array(z.object({ value: z.string(), label: z.string() })).optional(),
+  key: z.string(), type: z.enum(["number", "boolean", "text", "secret", "password", "enum"]), default: z.union([z.string(), z.number(), z.boolean()]), group: z.string().optional(), options: z.array(z.object({ value: z.string(), label: z.string() })).optional(), section: z.string().optional(), order: z.number().optional(),
   label: z.string(), help: z.string(), disclosure: z.enum(["basic", "advanced", "developer"]), needsRestart: z.boolean(), range: z.object({ min: z.number().optional(), max: z.number().optional() }).optional(),
   inEffect: z.union([z.string(), z.number(), z.boolean()]), pending: z.union([z.string(), z.number(), z.boolean()]).nullable(),
 });
 
 const readRoute = createRoute({ method: "get", path: "/", tags: ["Settings"], summary: "Read Stack settings", middleware: [requireOperator] as const, responses: { 200: { content: { "application/json": { schema: z.object({ settings: z.array(settingSchema) }) } }, description: "Declared and effective Stack settings." } } });
 const updateRoute = createRoute({ method: "put", path: "/", tags: ["Settings"], summary: "Update Stack settings", middleware: [requireOperator] as const, request: { body: { content: { "application/json": { schema: z.record(z.string(), z.unknown()) } } } }, responses: { 200: { content: { "application/json": { schema: z.object({ settings: z.array(settingSchema) }) } }, description: "Updated Stack settings." }, 400: { content: { "application/json": { schema: ErrorSchema } }, description: "Invalid Stack setting." }, 409: { content: { "application/json": { schema: ErrorSchema.extend({ setPasswordFirst: z.boolean().optional() }) } }, description: "Operator password required before LAN access." } } });
+const indexRoute = createRoute({ method: "get", path: "/index", tags: ["Settings"], summary: "Read the Stack settings index", middleware: [requireOperator] as const, responses: { 200: { content: { "application/json": { schema: z.object({ sections: z.array(z.unknown()), settings: z.array(z.unknown()) }) } }, description: "Declared settings index." } } });
+const applyRoute = createRoute({ method: "post", path: "/apply", tags: ["Settings"], summary: "Apply pending Stack settings", middleware: [requireOperator] as const, responses: { 200: { content: { "application/json": { schema: z.object({ settings: z.array(settingSchema) }) } }, description: "Applied pending settings." } } });
 
 export const settingsRoutes = apiRouter();
 settingsRoutes.openapi(readRoute, (c) => c.json({ settings: readStackConfig() }, 200));
 settingsRoutes.openapi(updateRoute, (c) => { try { return c.json({ settings: updateStackConfig(c.req.valid("json")) }, 200); } catch (error) { const message = error instanceof Error ? error.message : "Invalid Stack setting"; if (message === "Set the operator password before opening the Stack to the LAN.") return c.json({ error: message, setPasswordFirst: true }, 409); return c.json({ error: message }, 400); } });
+settingsRoutes.openapi(indexRoute, (c) => c.json({ sections: STACK_SETTING_SECTIONS, settings: STACK_SETTINGS.map(({ key, label, help, disclosure, section, order }) => ({ key, label, help, level: disclosure, section, order, path: `/settings/${section}` })) }, 200));
+settingsRoutes.openapi(applyRoute, (c) => { activateStackConfig(); return c.json({ settings: readStackConfig() }, 200); });

diff --git a/frontend/src/kit/icons.tsx b/frontend/src/kit/icons.tsx
@@ -1,9 +1,9 @@
 // The icon registry is the single permitted boundary for the lucide package.
 // eslint-disable-next-line no-restricted-imports
-import { Activity, ArrowDown, ArrowUp, Bell, Bot, Box, Check, ChevronDown, ChevronLeft, ChevronRight, Copy, Cpu, Download, ExternalLink, FileKey2, FileText, Filter, Gauge, History, Info, KeyRound, LayoutDashboard, LayoutList, LoaderCircle, Lock, LogOut, MessageSquare, Mic, Moon, Play, RefreshCw, Search, Send, Server, Settings, Settings2, ShieldCheck, SlidersHorizontal, Square, Sun, UploadCloud, Volume2 } from "lucide-react";
+import { Activity, ArrowDown, ArrowUp, Bell, Bot, Box, Check, ChevronDown, ChevronLeft, ChevronRight, Copy, Cpu, Database, Download, ExternalLink, FileKey2, FileText, Filter, Gauge, History, Info, KeyRound, LayoutDashboard, LayoutList, LoaderCircle, Lock, LogOut, MessageSquare, Mic, Monitor, Moon, Play, RefreshCw, RotateCcw, Search, Send, Server, Settings, Settings2, ShieldCheck, SlidersHorizontal, Square, Sun, UploadCloud, Volume2, Wrench } from "lucide-react";
 // eslint-disable-next-line no-restricted-imports
 import type { LucideIcon } from "lucide-react";
 export type Icon = LucideIcon;
 export type IconName = keyof typeof icons;
-export const icons = { Activity, ArrowDown, ArrowUp, Bell, Bot, Box, Check, ChevronDown, ChevronLeft, ChevronRight, Copy, Cpu, Download, ExternalLink, FileKey2, FileText, Filter, Gauge, History, Info, KeyRound, LayoutDashboard, LayoutList, LoaderCircle, Lock, LogOut, MessageSquare, Mic, Moon, Play, RefreshCw, Search, Send, Server, Settings, Settings2, ShieldCheck, SlidersHorizontal, Square, Sun, UploadCloud, Volume2 } as const;
+export const icons = { Activity, ArrowDown, ArrowUp, Bell, Bot, Box, Check, ChevronDown, ChevronLeft, ChevronRight, Copy, Cpu, Database, Download, ExternalLink, FileKey2, FileText, Filter, Gauge, History, Info, KeyRound, LayoutDashboard, LayoutList, LoaderCircle, Lock, LogOut, MessageSquare, Mic, Monitor, Moon, Play, RefreshCw, RotateCcw, Search, Send, Server, Settings, Settings2, ShieldCheck, SlidersHorizontal, Square, Sun, UploadCloud, Volume2, Wrench } as const;
 export function getIcon(name: keyof typeof icons): LucideIcon { return icons[name]; }

diff --git a/backend/tests/settings.test.ts b/backend/tests/settings.test.ts
@@ -10,7 +10,7 @@ test("Stack settings route serves grouped declarations and keeps LAN access pend
   const response = await app.request("/stack/v1/settings");
   expect(response.status).toBe(200);
   const initial = await response.json() as { settings: Array<{ key: string; group?: string; pending: unknown }> };
-  expect(initial.settings.map((setting) => setting.key)).toEqual(["updatesEnabled", "lanAccess"]);
+  expect(initial.settings.map((setting) => setting.key)).toEqual(expect.arrayContaining(["stackName", "theme", "updatesEnabled", "lanAccess", "port", "historyRetention", "logLevel"]));
   expect(initial.settings.every((setting) => setting.group)).toBe(true);
   const setup = await app.request("/stack/v1/operator/setup", { method: "POST", headers: { "content-type": "application/json" }, body: JSON.stringify({ password: "test password" }) });
   const cookie = setup.headers.get("set-cookie")?.split(";")[0] ?? "";

diff --git a/frontend/src/lib/api.ts b/frontend/src/lib/api.ts
@@ -158,6 +158,17 @@ export interface EngineSetting {
   range?: { min?: number; max?: number };
   inEffect: string | number | boolean;
   pending: string | number | boolean | null;
+  section?: string;
+  order?: number;
+}
+
+export interface StackSettingSection {
+  id: string;
+  title: string;
+  icon: string;
+  order: number;
+  itemId?: string;
+  computer?: boolean;
 }
 
 export interface EngineRecord {

diff --git a/backend/src/settings/engineKeys.ts b/backend/src/settings/engineKeys.ts
@@ -19,6 +19,8 @@ export interface EngineSettingDeclaration {
   disclosure: Disclosure;
   needsRestart: boolean;
   range?: { min?: number; max?: number };
+  section?: string;
+  order?: number;
 }
 
 export const ENGINE_SETTINGS: Record<EngineKind, EngineSettingDeclaration[]> = {

diff --git a/docs/dev.md b/docs/dev.md
@@ -692,6 +692,13 @@ options. The configuration API
 shows both in-effect and pending values until the next start, when pending
 values become in effect.
 
+The Stack settings page is driven by the declaration index at
+`/stack/v1/settings/index`. It groups the declared keys into section cards,
+keeps search and `@modified` filtering in the shell, and renders controls
+through the generic settings form. A key applies as soon as it changes; keys
+marked `needsRestart` remain pending in the database and are collected by a
+sticky restart bar with Apply now and Discard actions.
+
 ## The showroom
 
 `STACK_SHOWROOM=1` is a development-only mode that feeds the normal routes a

diff --git a/docs/BACKLOG.md b/docs/BACKLOG.md
@@ -762,7 +762,7 @@ Order matters: the shell items (38 to 40) first, the kit blocks (41,
   palette reaches them (test); captures at 1440 and 400 opened and
   judged. Exit: `scripts/check.sh`.
 
-- [ ] **STACK-52 (M): Settings, second pass.** ux.md "Settings" second
+- [x] **STACK-52 (M): Settings, second pass.** ux.md "Settings" second
   pass (2026-09-18): the settings nav with "Find a setting" and the
   section rows plus the computer group; section cards (icon, title,
   chevron) with settings rows or a things table and its action row;
